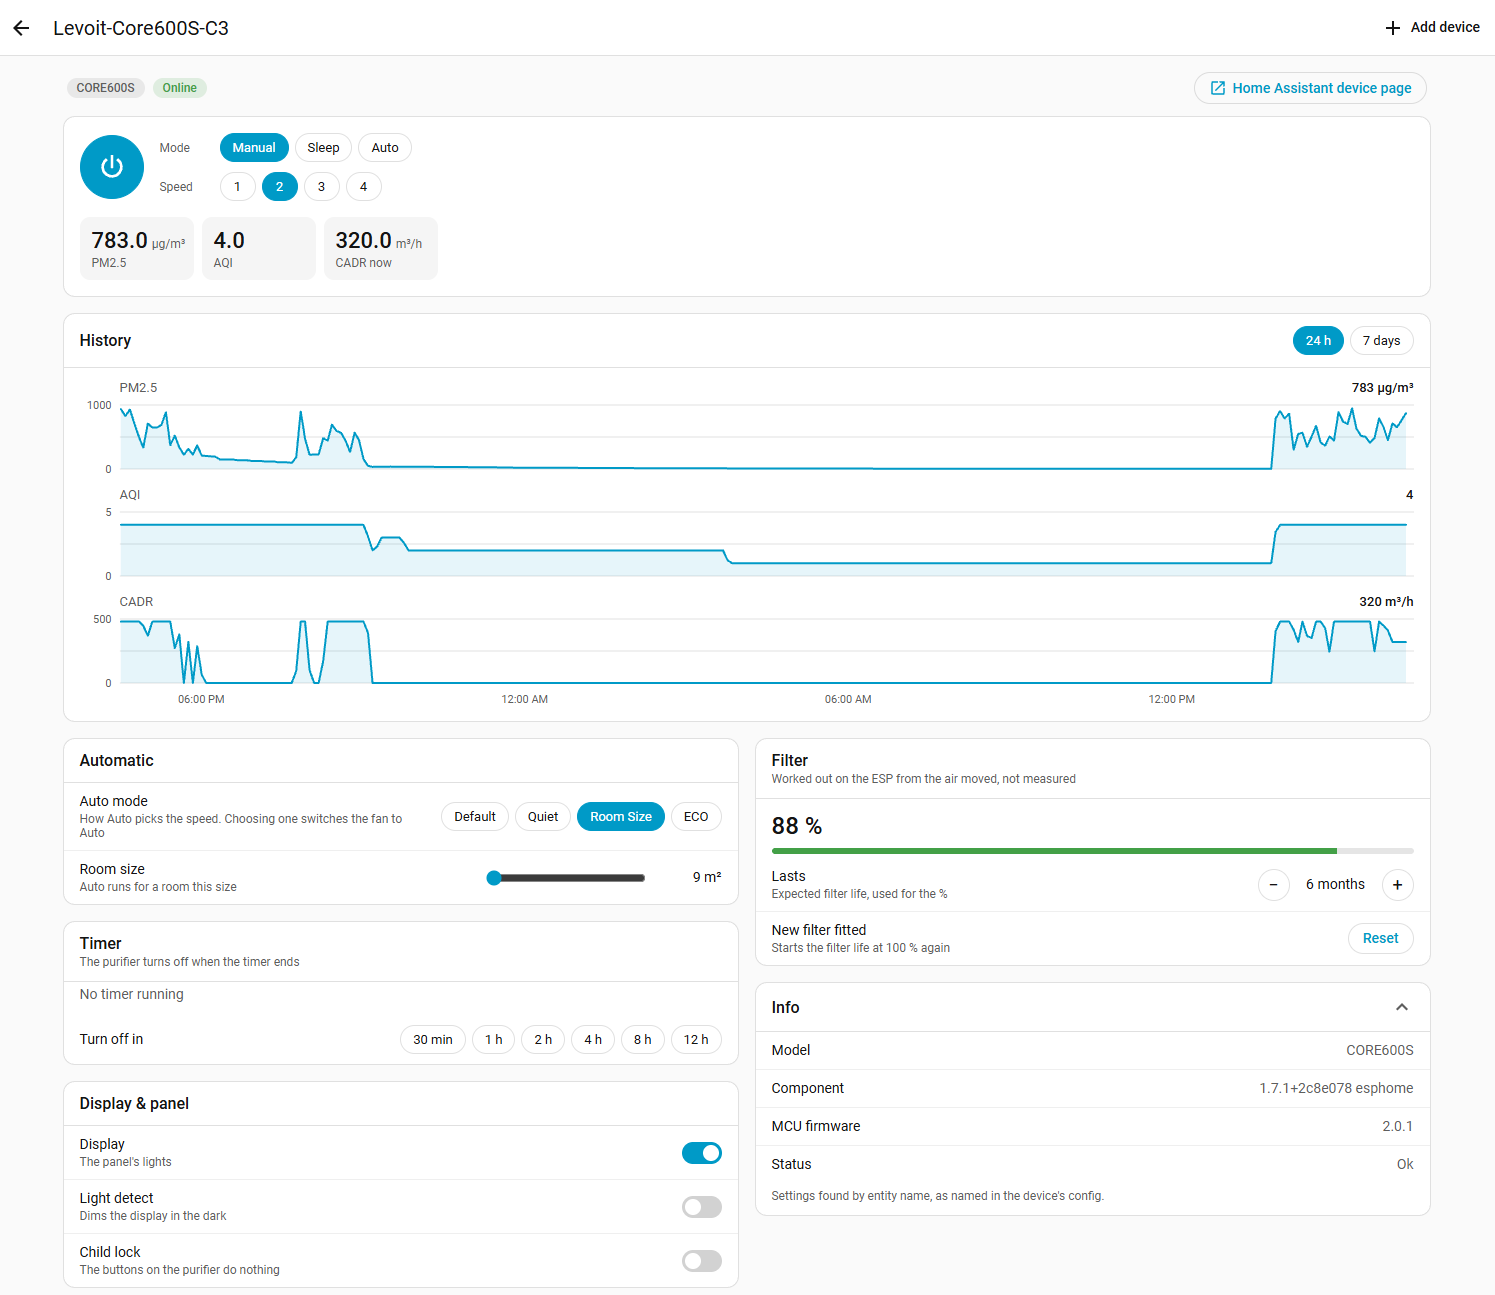
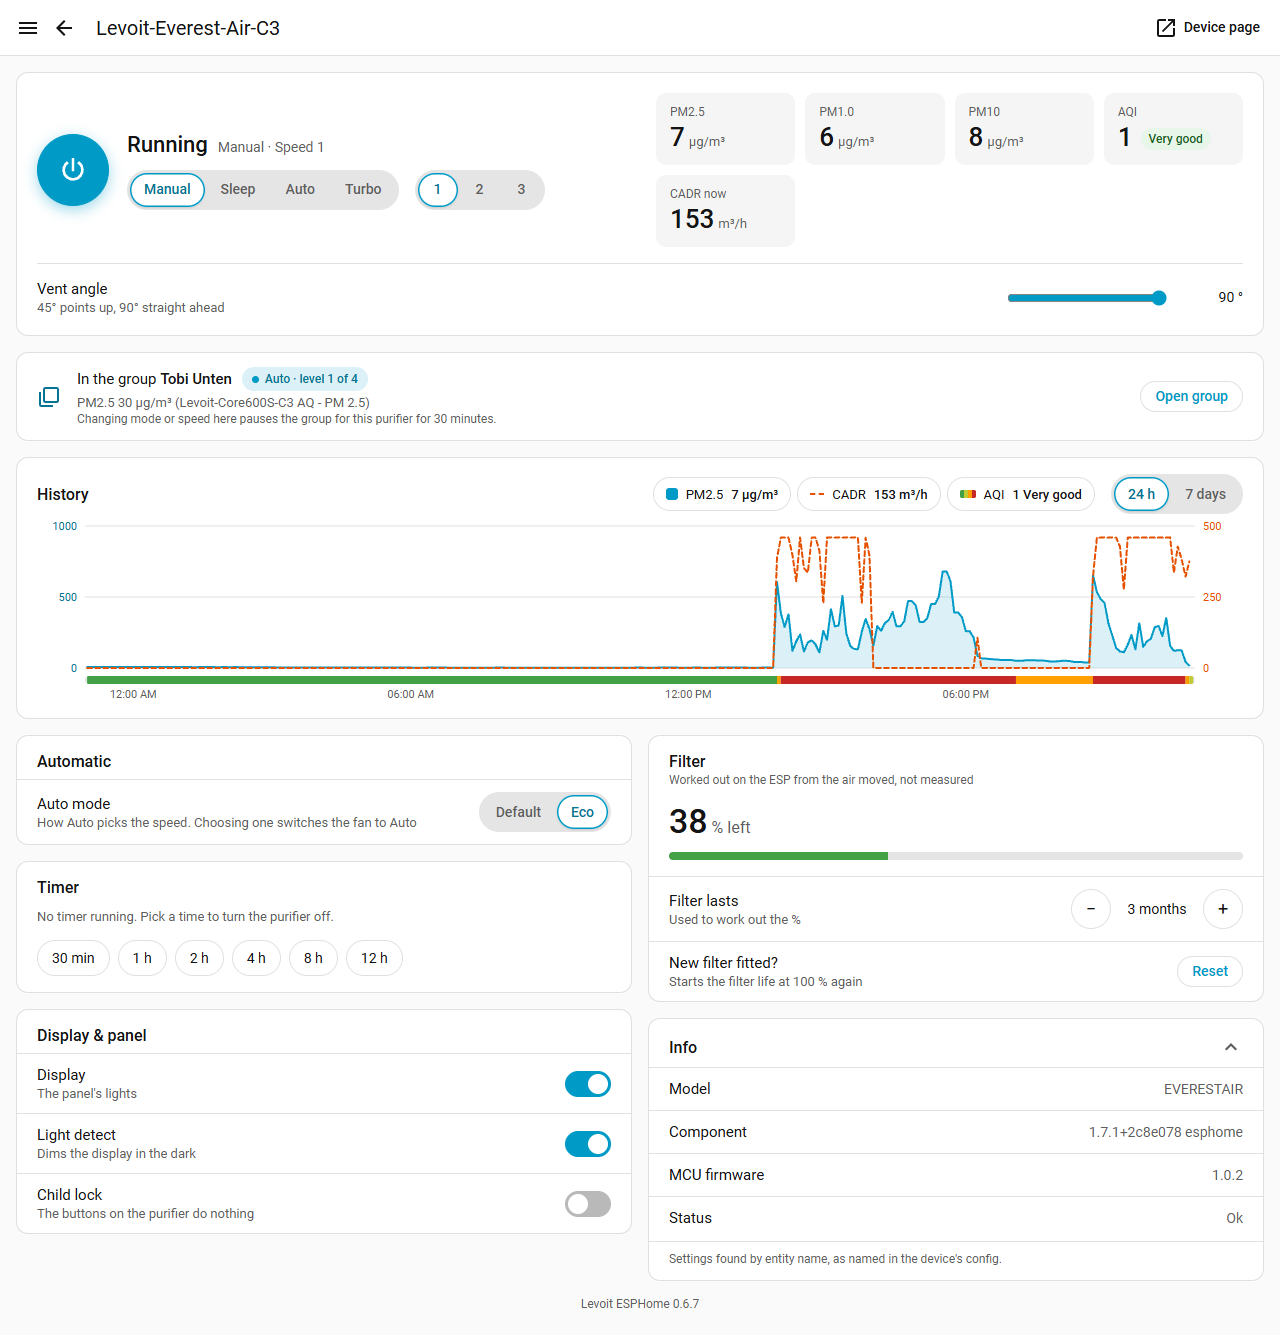
docs: screenshots of 0.6.7 without the sidebar, the Everest Air's page
screenshots.py leaves Home Assistant's sidebar out by default (--sidebar
keeps it) and reads the first line of ha_token.

diff --git a/scripts/screenshots.py b/scripts/screenshots.py
@@ -7,7 +7,7 @@
         python scripts/screenshots.py
 
 The token is a long-lived access token of an admin (your profile -> Security),
-from HA_TOKEN or else from the file ha_token in the repository (git-ignored);
+from HA_TOKEN or else the first line of ha_token in the repository (git-ignored);
 it is never written anywhere. The pictures go to images/:
 
     overview.png       Devices
@@ -16,7 +16,8 @@ it is never written anywhere. The pictures go to images/:
     group-editor.png   a group's editor (--group, else the first group; none: skipped)
     panel-updates.png  Updates & config
 
-Each picture is as tall as the page, at --width (default 1280) CSS pixels.
+Each picture is as tall as the page, at --width (default 1280) CSS pixels,
+without Home Assistant's sidebar (--sidebar to keep it).
 """
 
 from __future__ import annotations
@@ -57,7 +58,7 @@ def parse_args() -> argparse.Namespace:
         "--scale", type=float, default=1, help="device pixel ratio, 2 for sharper pictures"
     )
     p.add_argument("--dark", action="store_true", help="Home Assistant's dark theme")
-    p.add_argument("--hide-sidebar", action="store_true", help="without Home Assistant's sidebar")
+    p.add_argument("--sidebar", action="store_true", help="with Home Assistant's sidebar")
     p.add_argument(
         "--settle", type=float, default=3, help="seconds to wait for live data and history"
     )
@@ -110,7 +111,9 @@ async def main() -> int:  # noqa: PLR0915 - one run, top to bottom
     args = parse_args()
     token = os.environ.get("HA_TOKEN")
     if not token and args.token_file.is_file():
-        token = args.token_file.read_text(encoding="utf-8").strip()
+        # the first line with something on it (a BOM from an editor is dropped)
+        lines = args.token_file.read_text(encoding="utf-8-sig").splitlines()
+        token = next((line.strip() for line in lines if line.strip()), "")
     if not token:
         print(
             f"Set HA_TOKEN, or put the token in {args.token_file}: a long-lived access token"
@@ -135,7 +138,7 @@ async def main() -> int:  # noqa: PLR0915 - one run, top to bottom
             device_scale_factor=args.scale,
             color_scheme="dark" if args.dark else "light",
         )
-        await context.add_init_script(login_script(url, token, args.dark, args.hide_sidebar))
+        await context.add_init_script(login_script(url, token, args.dark, not args.sidebar))
         page = await context.new_page()
         panel = page.locator(TAG)
 

diff --git a/README.md b/README.md
@@ -478,5 +478,5 @@ HA_URL=http://homeassistant.local:8123 HA_TOKEN=<token> python scripts/screensho
 It saves `overview.png`, `device-page.png`, `groups.png`, `group-editor.png` and
 `panel-updates.png` to `images/`. `--device` and `--group` pick which device and
 group, `--only overview groups` takes some, `--dark` uses the dark theme,
-`--hide-sidebar` leaves out Home Assistant's sidebar and `--scale 2` makes them
+`--sidebar` keeps Home Assistant's sidebar and `--scale 2` makes them
 sharper.
